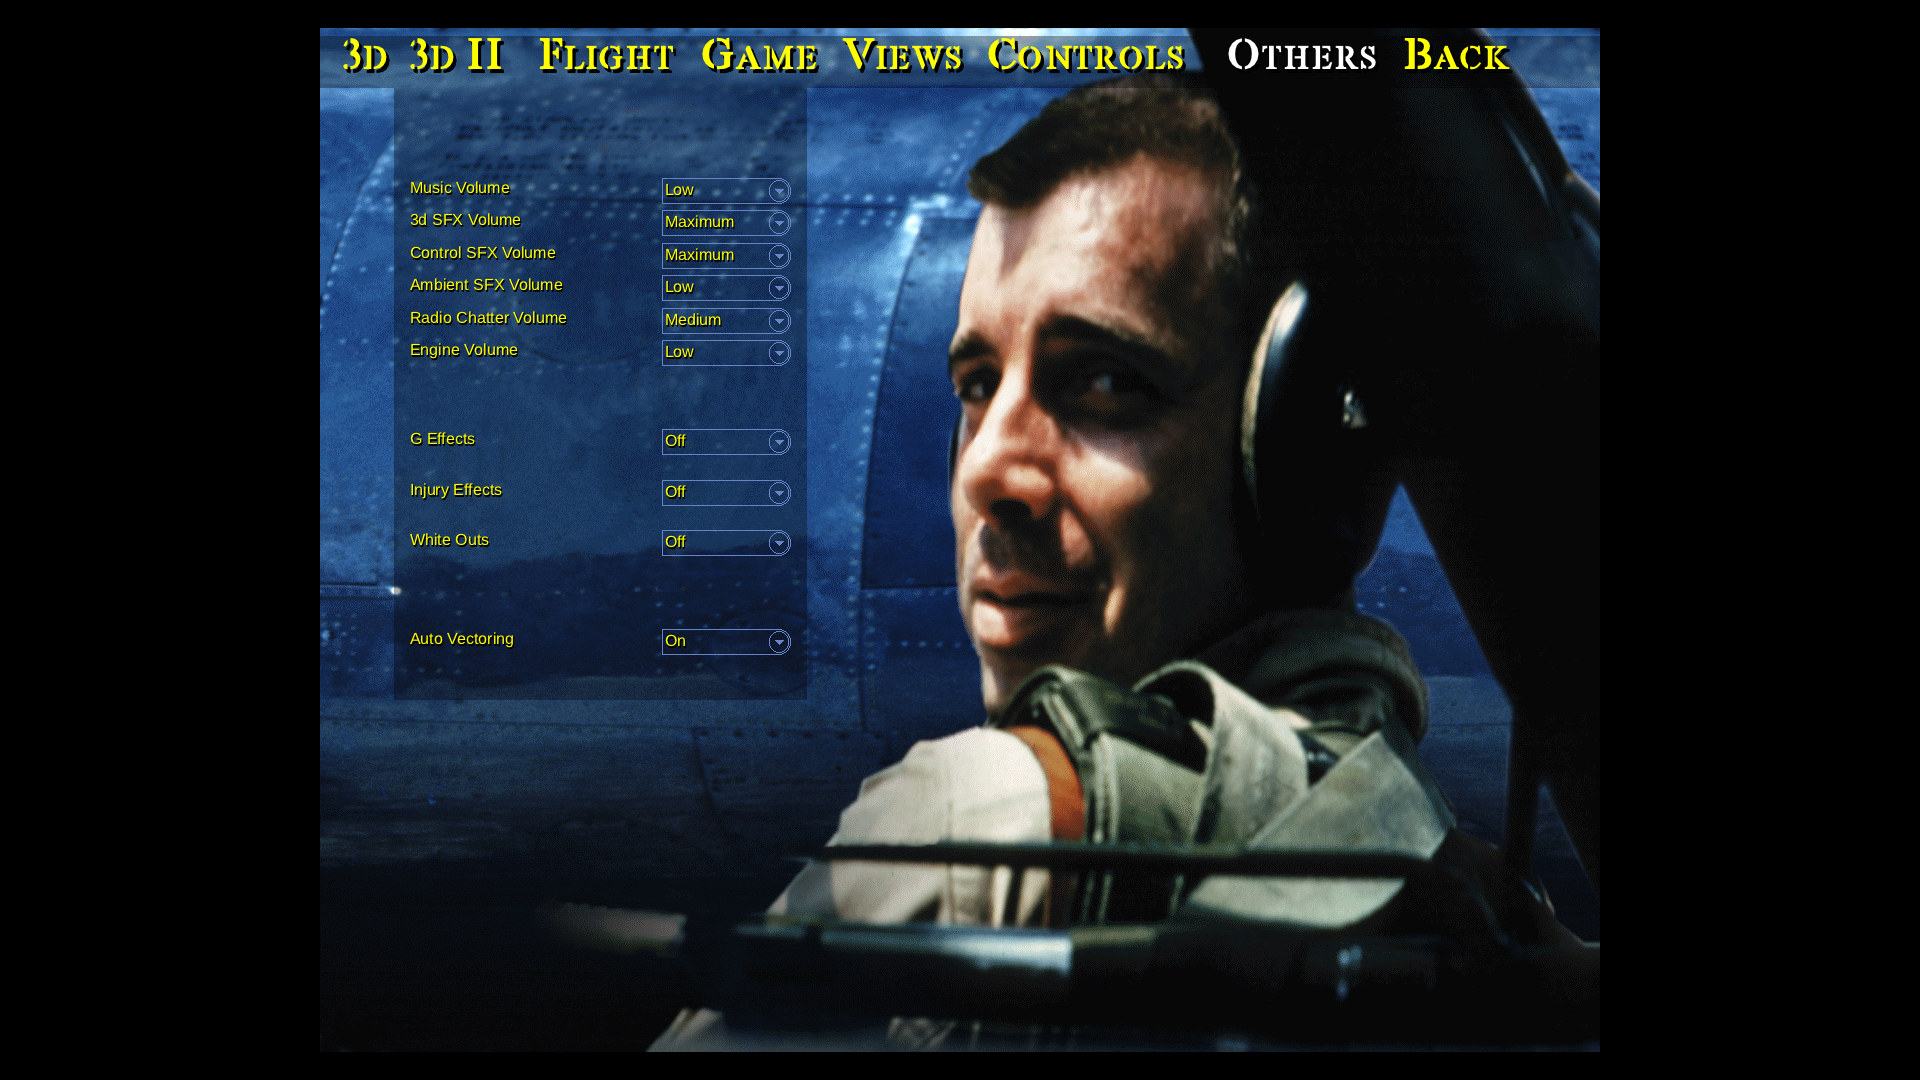
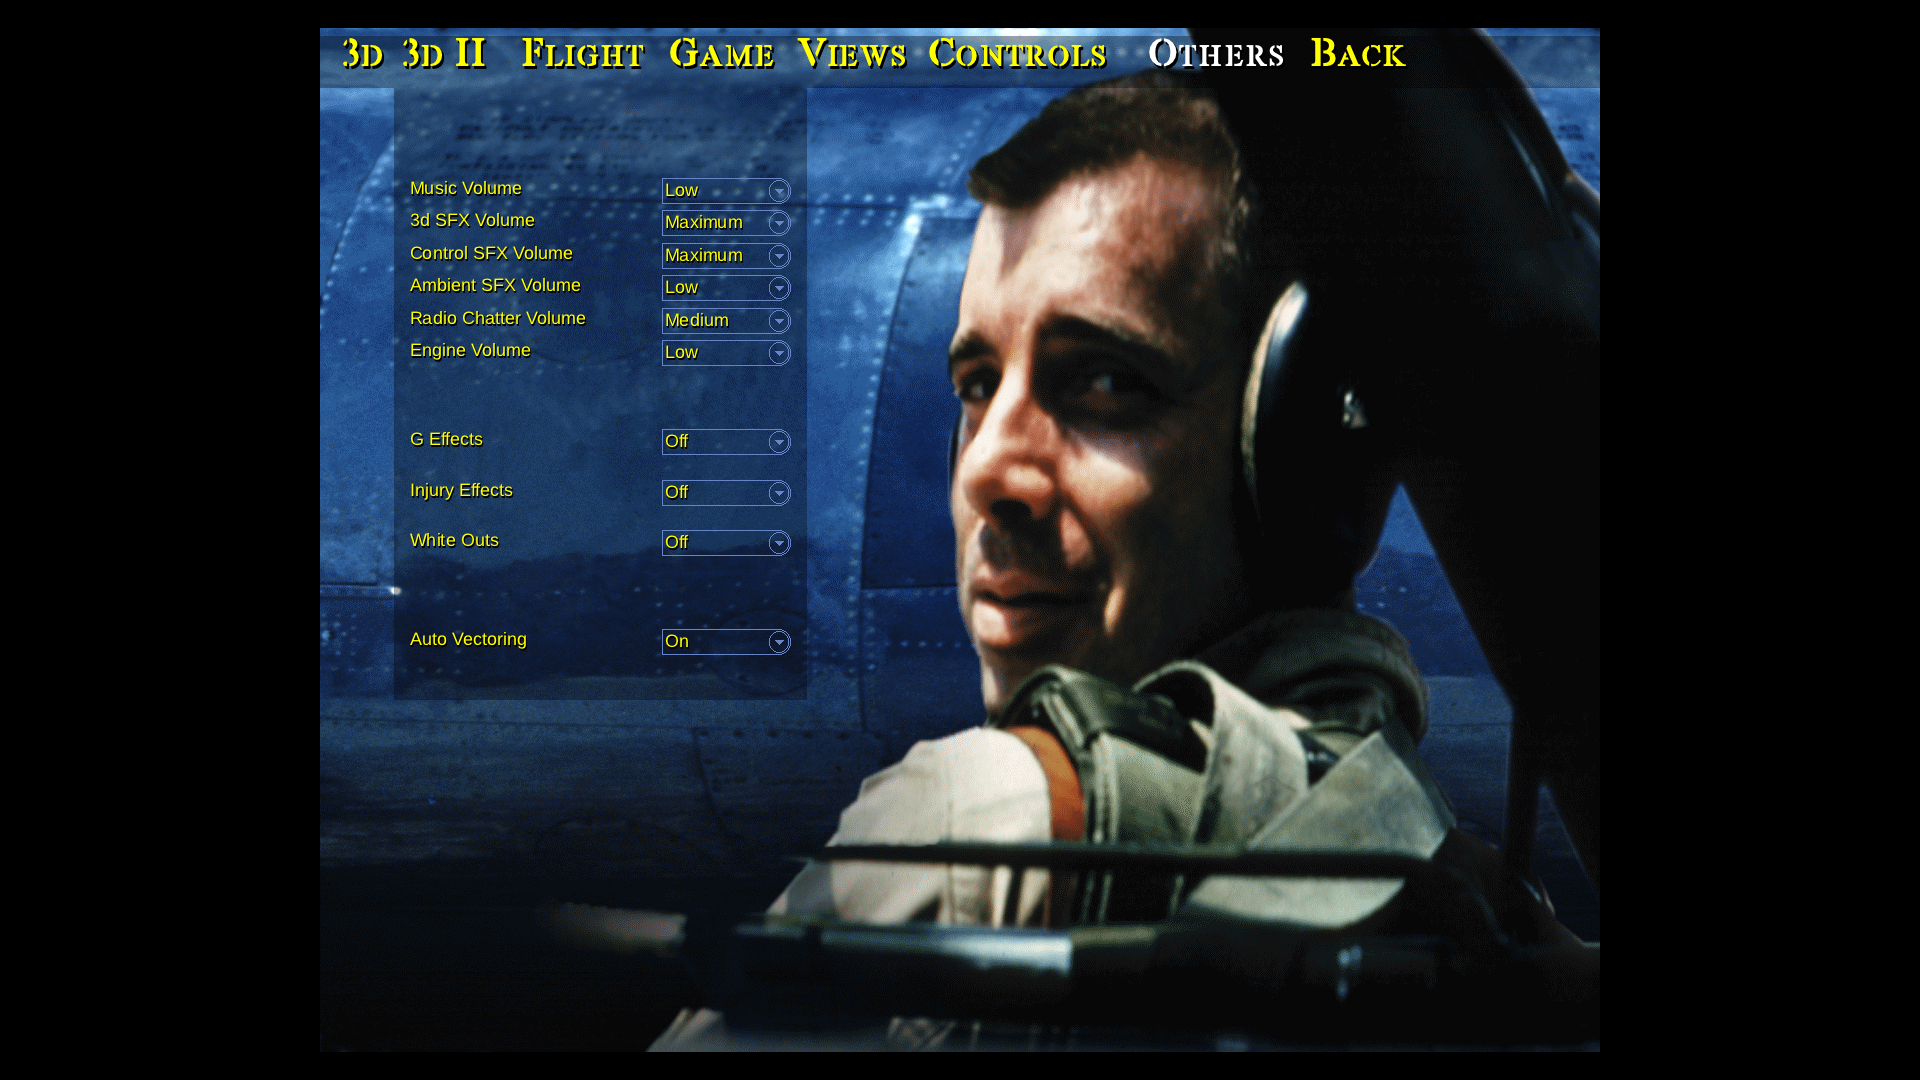
Flip MA_FONT_EM and BOB_FONT_EM to default-on, re-seed both ports' references, and verify
PO decision. Both flags are now default-on with MA_NO_FONT_EM / BOB_NO_FONT_EM to
revert.

Evidence: the flag multiplies glyph size by exactly hhea/em -- 0.905 for MiG
Alley's Intel.ttf, 1.171 for BoB's g101016_.ttf -- so it shrinks one port's art
face and enlarges the other's, and both land on their gold: MA's prefs tab row
31 -> 28 against the gold's 28, BoB's side-select caption 24 -> 28 against 28.

Verified as the PREDICTED change before re-seeding anything. On MA's prefs_3d,
which carries both faces, they moved in opposite directions on one screen: SANS
"Display Driver:" h 15 -> 17, ratio 1.118 against a predicted 1.117; ART tab row
w 694 -> 620, ratio 0.893 against 0.905. On BoB's config-gfx, "3D Resolution"
h 12 -> 14, ratio 1.167 against 1.171.

Re-seeded: MA port/ref/native (5 at 800x600) and port/ref/native1080 (5 at
1920x1080), BoB doc/ref/native (8). All now byte-identical. Provenance, the
measurements above and the regression-not-gold caveat recorded in both reference
READMEs.

Gates after the flip: MA maximized_nav, help_click, dialog_scroll, map_drag 4/4
clean -- the four that assert geometry and were green against the smaller text.

Negative control worth keeping: BoB's mainmenu is byte-identical before and after.
The title menu draws through bob_draw_menu's own pixel height (resW*36/1000) and
never reaches the em/cell conversion, so the flag moves the R* control text and
nothing else.
[…]

diff --git a/SRC/compat/ma_gdi.cpp b/SRC/compat/ma_gdi.cpp
@@ -247,7 +247,14 @@ static MaTtf* font_ttf(MaFont* f) { return (f && f->ttf) ? f->ttf : art_face(); 
 /* CAMPSCREEN-1 S9: the scale for THIS font's requested height, honouring the Win32 sign
    convention when MA_FONT_EM=1 (negative lfHeight == em height). Default keeps the old
    cell-height scaling so the committed parity references stay valid until they are re-taken. */
-static int ma_font_em_mode(void) { static int on = -1; if (on < 0) on = getenv("MA_FONT_EM") ? 1 : 0; return on; }
+/* 2026-09-16: DEFAULT ON, by PO decision. Measured against real-game captures in both ports:
+   MiG Alley's prefs tab row goes 31 px -> 28 px against the gold's 28, and BoB's side-select
+   caption goes 24 px -> 28 px against its gold's 28 (ink 1824 vs 1825, width 157 vs 156). The
+   flag multiplies glyph size by exactly hhea/em -- 0.905 for this port's Intel.ttf, 1.171 for
+   BoB's g101016_.ttf -- so it SHRINKS here and ENLARGES there, and 31*0.905 = 28.06 and
+   24*1.171 = 28.1 both predicted the measurement before it was taken.
+   The parity references were re-seeded with this on; MA_NO_FONT_EM=1 reverts. */
+static int ma_font_em_mode(void) { static int on = -1; if (on < 0) on = getenv("MA_NO_FONT_EM") ? 0 : 1; return on; }
 static float ma_font_scale(MaTtf* t, int pixelH, int isEm) {
 	if (!t || pixelH <= 0) return 0.0f;
 	return (isEm && ma_font_em_mode()) ? stbtt_ScaleForMappingEmToPixels(&t->info, (float)pixelH)

diff --git a/scrum.md b/scrum.md
@@ -13309,3 +13309,46 @@ x400–900 and the montage at the right; we show slate-blue and the montage. Sam
 window onto it — so the question is the blit's source offset, not the art.
 
 **GOLDSCREENS-MA-1: new pass, sprint 2 of 4.**
+
+## GOLDSCREENS-MA-1 S11 (Opus 5, 2026-09-16) — **grooming, not the named next step**: the flag flipped today shrinks the ART face, and S8 had this screen's title line matching the gold EXACTLY with it off — so the first job was checking whether today's change broke yesterday's fix. ⭐ **It did not.**
+
+**Story:** GOLDSCREENS-MA-1. **New pass, sprint 2 of 4.**
+
+S10 named "which part of the 1600×140 strip belongs where" as the next step. **Deliberately not taken.**
+S10's own measurement showed that wiring the chrome band moved the screen *further* from the gold
+(mean |diff| 68.8 → 74.8), it is cosmetic chrome, and chasing a blit's source offset is a rabbit hole
+with no gold-visible payoff yet. Something unasked mattered more:
+
+**`MA_FONT_EM` went default-on today, and it multiplies the ART face by 0.905.** S8 got this very
+screen's title line matching the gold's **18 px exactly**, measured with the flag **off**. A change
+made for the prefs tab row could silently have cost that.
+
+### The check
+
+| | title band | date band | ink | x-start |
+|---|---|---|---|---|
+| **gold** (260915, t=180) | **18** | **16** | 1342 | **54** |
+| ours, flag **off** (S8) | **18** | 17 | 1851 | 61 |
+| ours, flag **on** (now) | **18** | 18 | 1986 | **51** |
+
+* **Title line unchanged at 18 px** — still exact against the gold.
+* **Left edge 61 → 51** against the gold's 54: from 7 px right to 3 px left, closer in absolute
+  terms.
+* Date line 17 → 18 against the gold's 16 — **1 px further out**, the only thing that got worse.
+
+**No regression.** The flip is safe on the screen it was most likely to have broken.
+
+### ⚠ Worth a note
+
+The ART-face title did **not** shrink by 0.905 as the model would predict for a negative (em) height
+request. Either this bar's font is requested as a positive cell height — in which case the flag
+does not apply to it by design — or something compensates. **Not chased**: the screen is right, and
+the question only matters if a future screen disagrees with the model. Recorded so it is not
+mistaken for a contradiction if it comes up.
+
+### Gates
+
+Capture only; no code changed. (Today's flip is covered by the re-seeded references and the 4/4
+geometry gates.)
+
+**GOLDSCREENS-MA-1: new pass, sprint 2 of 4.**

diff --git a/port/ref/native/README.md b/port/ref/native/README.md
@@ -107,3 +107,38 @@ It was re-seeded only after two things were established, and neither is optional
 
 Re-seeding without both is how a gate is quietly turned into a picture of whatever the build
 happens to do — the failure this directory's own header warns about.
+
+## RE-SEEDED 2026-09-16 — the font-metric flag was turned on by PO decision
+
+`MA_FONT_EM` is now **default-on** (`MA_NO_FONT_EM=1` reverts). It changes text size on every
+screen, so **all five 800×600 references and all five 1920×1080 references in `native1080/` were
+re-taken on this date.** Anything compared against an older copy of these files will disagree for
+that reason and no other.
+
+**Why the flip was made.** Measured against real-game captures in *both* Rowan ports:
+
+| | screen | before | after | gold |
+|---|---|---|---|---|
+| MiG Alley | prefs tab row | 31 px | **28 px** | **28 px** |
+| Battle of Britain | side-select caption | 24 px | **28 px** | **28 px** |
+
+The flag multiplies glyph size by exactly `hhea/em` — **0.905** for this port's `Intel.ttf` and
+**1.171** for BoB's `g101016_.ttf` — so it *shrinks* MiG Alley's art face and *enlarges* BoB's, and
+`31 × 0.905 = 28.06` and `24 × 1.171 = 28.1` both predicted the measurement before it was taken.
+
+**Verified on this screen set before re-seeding**, on `prefs_3d`, which carries both faces:
+
+| face | before | after | measured | predicted |
+|---|---|---|---|---|
+| SANS `Display Driver:` | h 15, w 102 | h 17, w 114 | **1.118** | 1.117 |
+| ART tab row | h 20, w 694 | h 19, w 620 | **0.893** | 0.905 |
+
+Both within ~1.5 % of the model, in **opposite directions on the same screen**. The re-seed was not
+"accept whatever the build produces" — it was taken after the change was shown to be the predicted
+one.
+
+**Gates re-run after the flip:** `maximized_nav`, `help_click`, `dialog_scroll`, `map_drag` — the
+four that assert geometry and were green against the smaller text — **4/4 clean**.
+
+⚠ These remain **regression** oracles, not gold ones. They still answer "did this change?" and
+still cannot answer "is this right?" — see the block at the top of `port/parity_2d.sh`.
